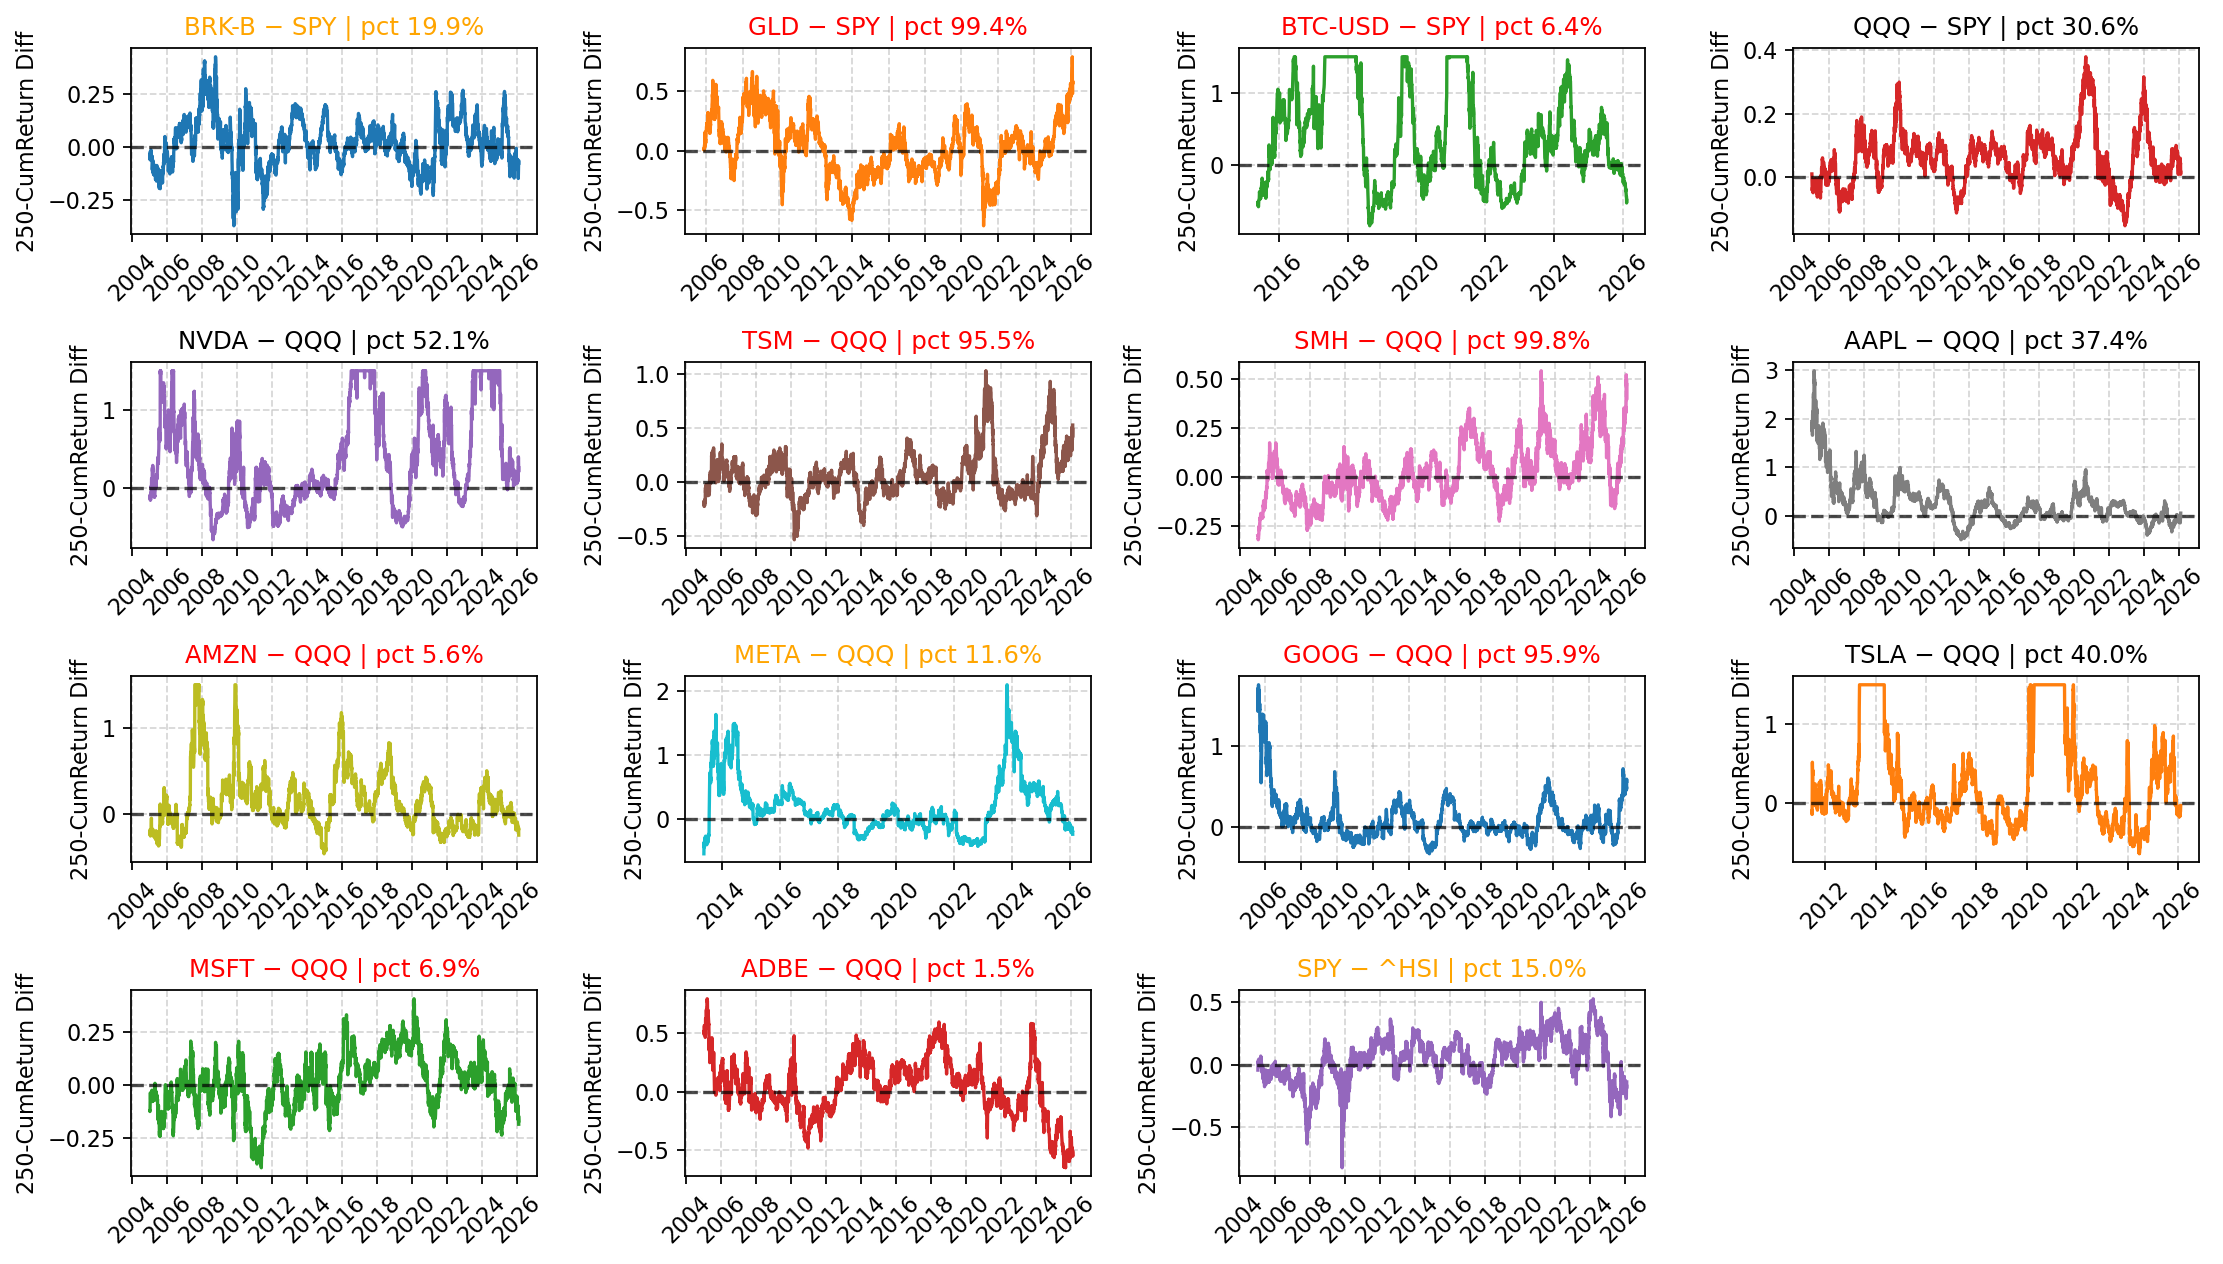
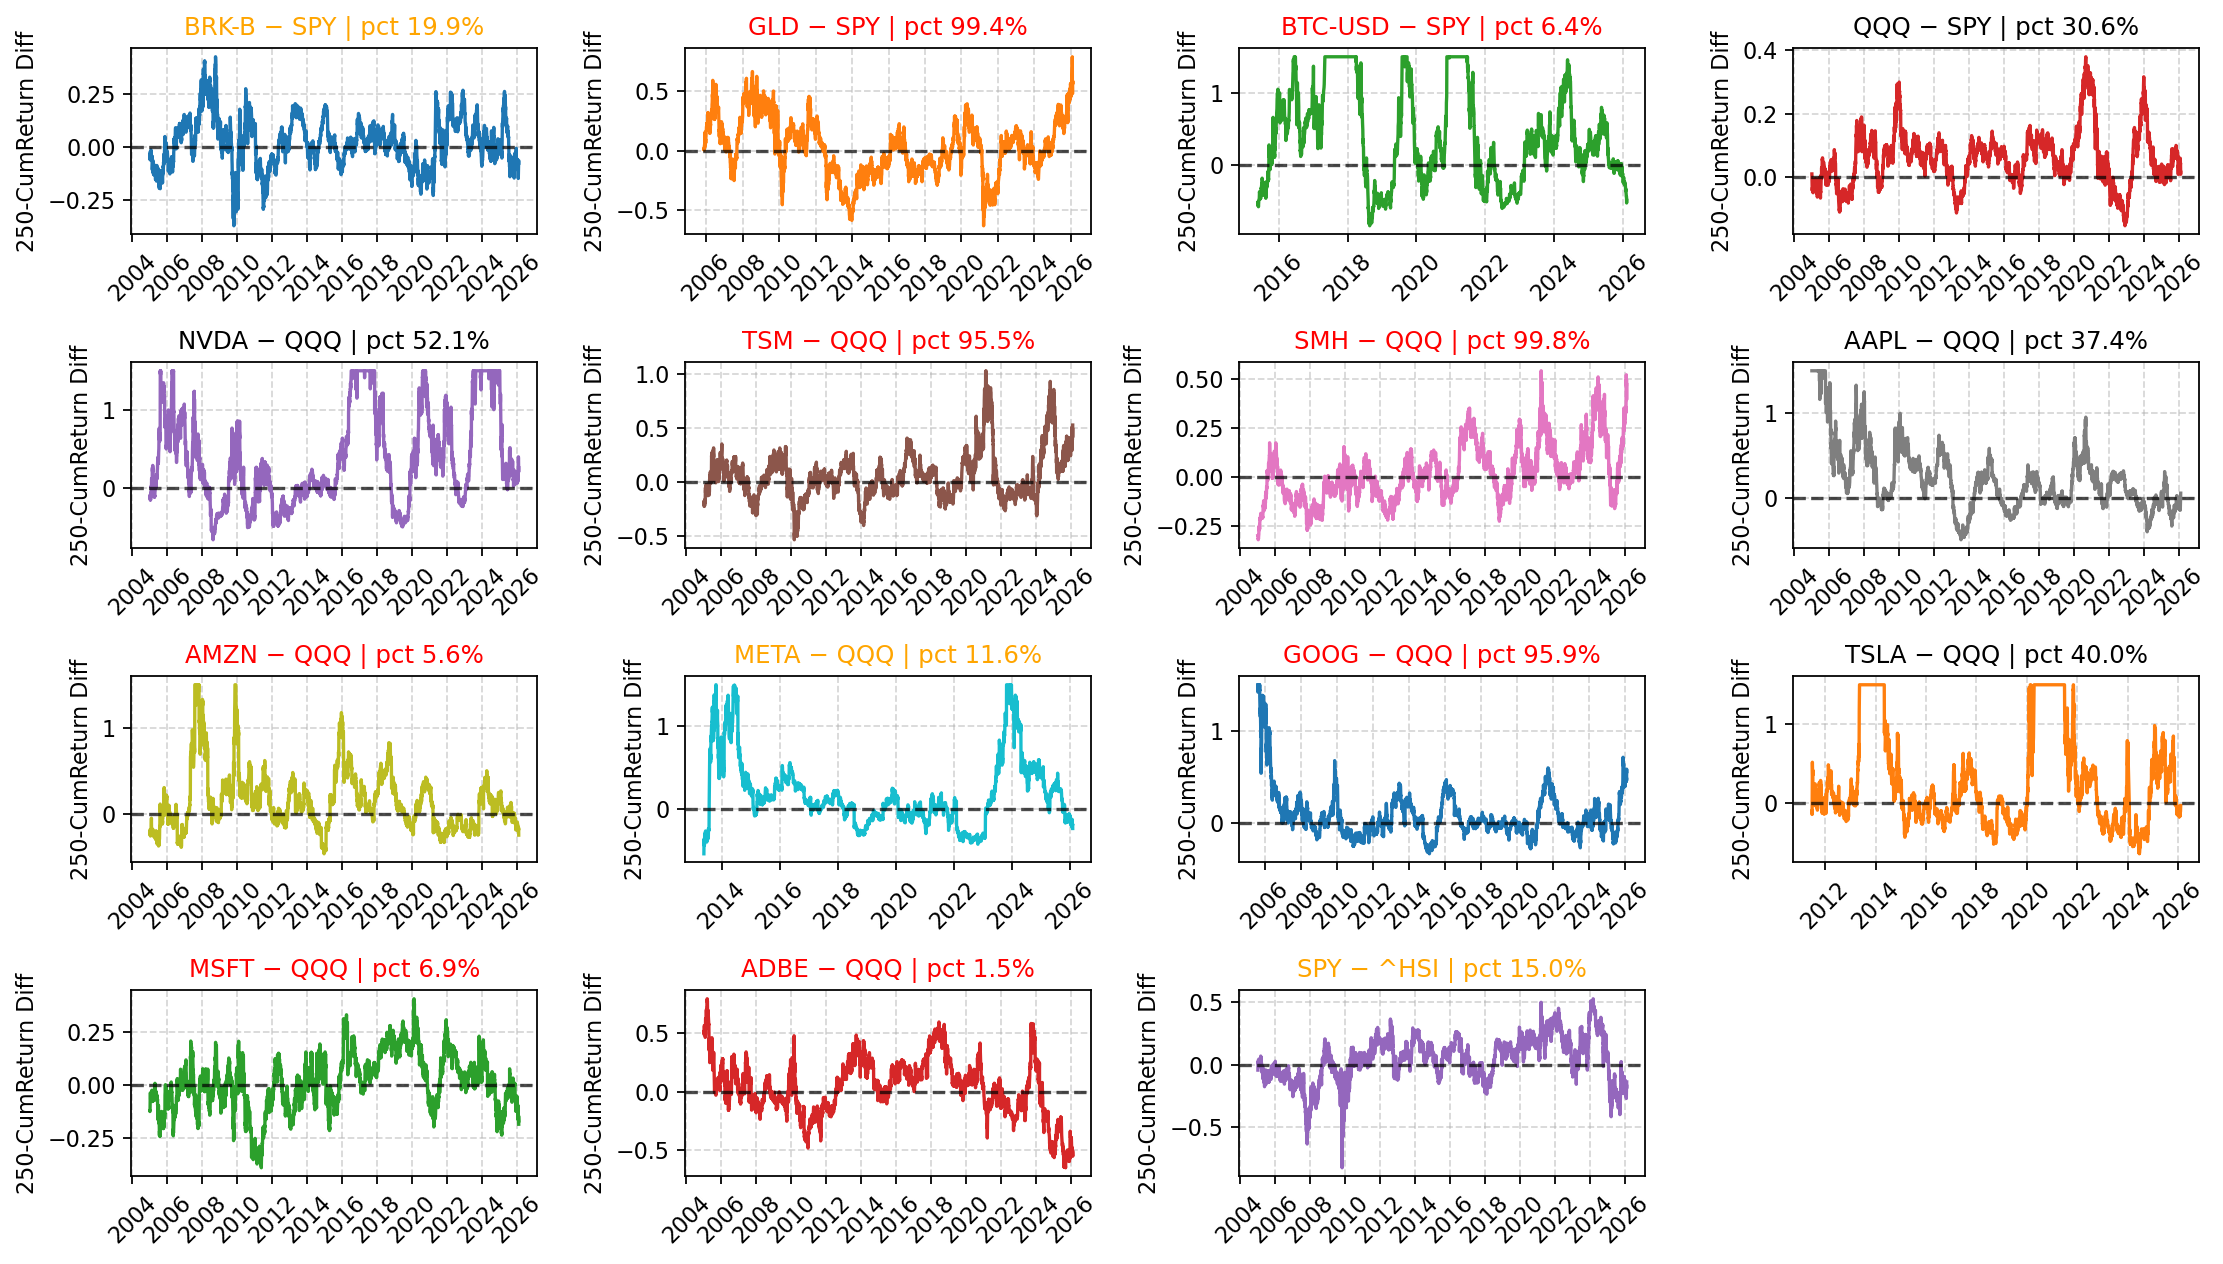
.

diff --git a/docs/index.html b/docs/index.html
@@ -12,7 +12,7 @@
 </head>
 <body>
   <h1>Rolling Pair Diffs (250-day)</h1>
-  <div class="meta">Last updated: 2026-02-08 15:36 UTC</div>
+  <div class="meta">Last updated: 2026-02-08 15:38 UTC</div>
   <p><img src="rolling_pairs.png" alt="rolling pairs figure"></p>
   <div class="note">
     Data via <code>yfinance</code>. Figure regenerates daily via GitHub Actions.

diff --git a/auto_macro_pair_monitor.py b/auto_macro_pair_monitor.py
@@ -107,7 +107,7 @@ def main():
         diff = df[tcol] - df[bcol]
 
         # BTC-only clip (no default clip for others)
-        for truncate_sym in ['BTC', 'NVDA', 'TQQQ', 'TSLA', 'AMZN']:
+        for truncate_sym in ['BTC', 'NVDA', 'TQQQ', 'TSLA', 'AMZN', 'AAPL', 'META', 'GOOG', 'MSFT', 'ADBE', 'SMH', 'TSM', 'QQQ']:
             if truncate_sym in TARGET:
                 diff = diff.clip(-1.5, 1.5)
 
